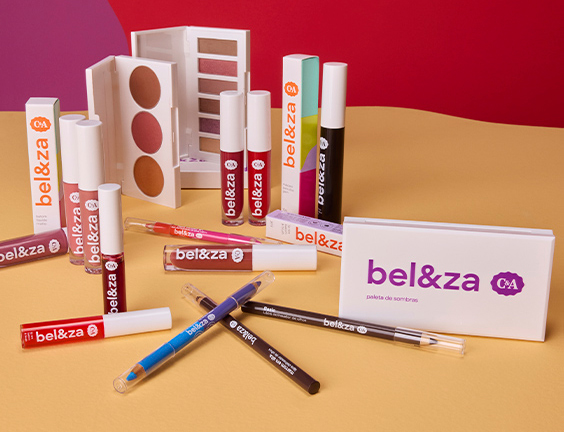
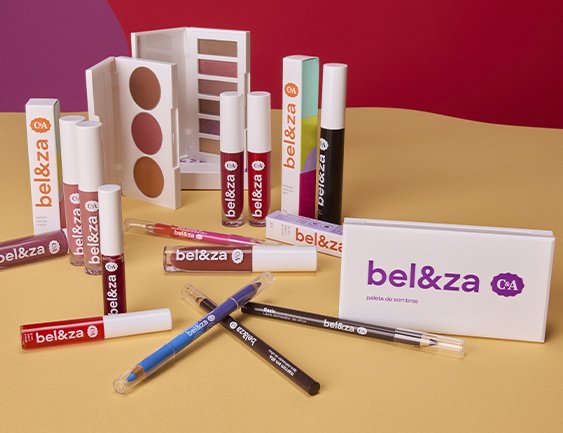
UP

diff --git a/20230429_ddm/20230429_ddm.html b/20230429_ddm/20230429_ddm.html
@@ -302,7 +302,7 @@
           <table width="100%" cellpadding="0" cellspacing="0" border="0" align="center" style="width: 100%; max-width:600px">
             <tr>
               <td align="center">
-                <table width="95%" cellpadding="0" cellspacing="0" border="0" align="center" style="width: 95%; max-width:564px">
+                <table width="95%" cellpadding="0" cellspacing="0" border="0" align="center" style="width: 95%; max-width:563px">
                   <tr>
                     <td align="center" valign="top" style="padding: 0 0 0 0;">
                       <a href="https://www.cea.com.br/beleza-cea" target="_blank">
@@ -356,11 +356,11 @@
           <table width="100%" cellpadding="0" cellspacing="0" border="0" align="center" style="width: 100%; max-width:600px">
             <tr>
               <td align="center">
-                <table width="95%" cellpadding="0" cellspacing="0" border="0" align="center" style="width: 95%; max-width:564px">
+                <table width="95%" cellpadding="0" cellspacing="0" border="0" align="center" style="width: 95%; max-width:563px">
                   <tr>
                     <td align="center" valign="top" style="padding: 0 0 0 0;">
                       <a href="https://www.cea.com.br/marketplace/ofertas/dia-das-maes-grandes-marcas" target="_blank">
-                        <img src="./images/zizane.jpg" width="100%" style="width:100%; max-width: 100%; display: block;" border="0" alt="" />
+                        <img src="./images/zinzane.jpg" width="100%" style="width:100%; max-width: 100%; display: block;" border="0" alt="" />
                       </a>
                     </td>
                   </tr>
